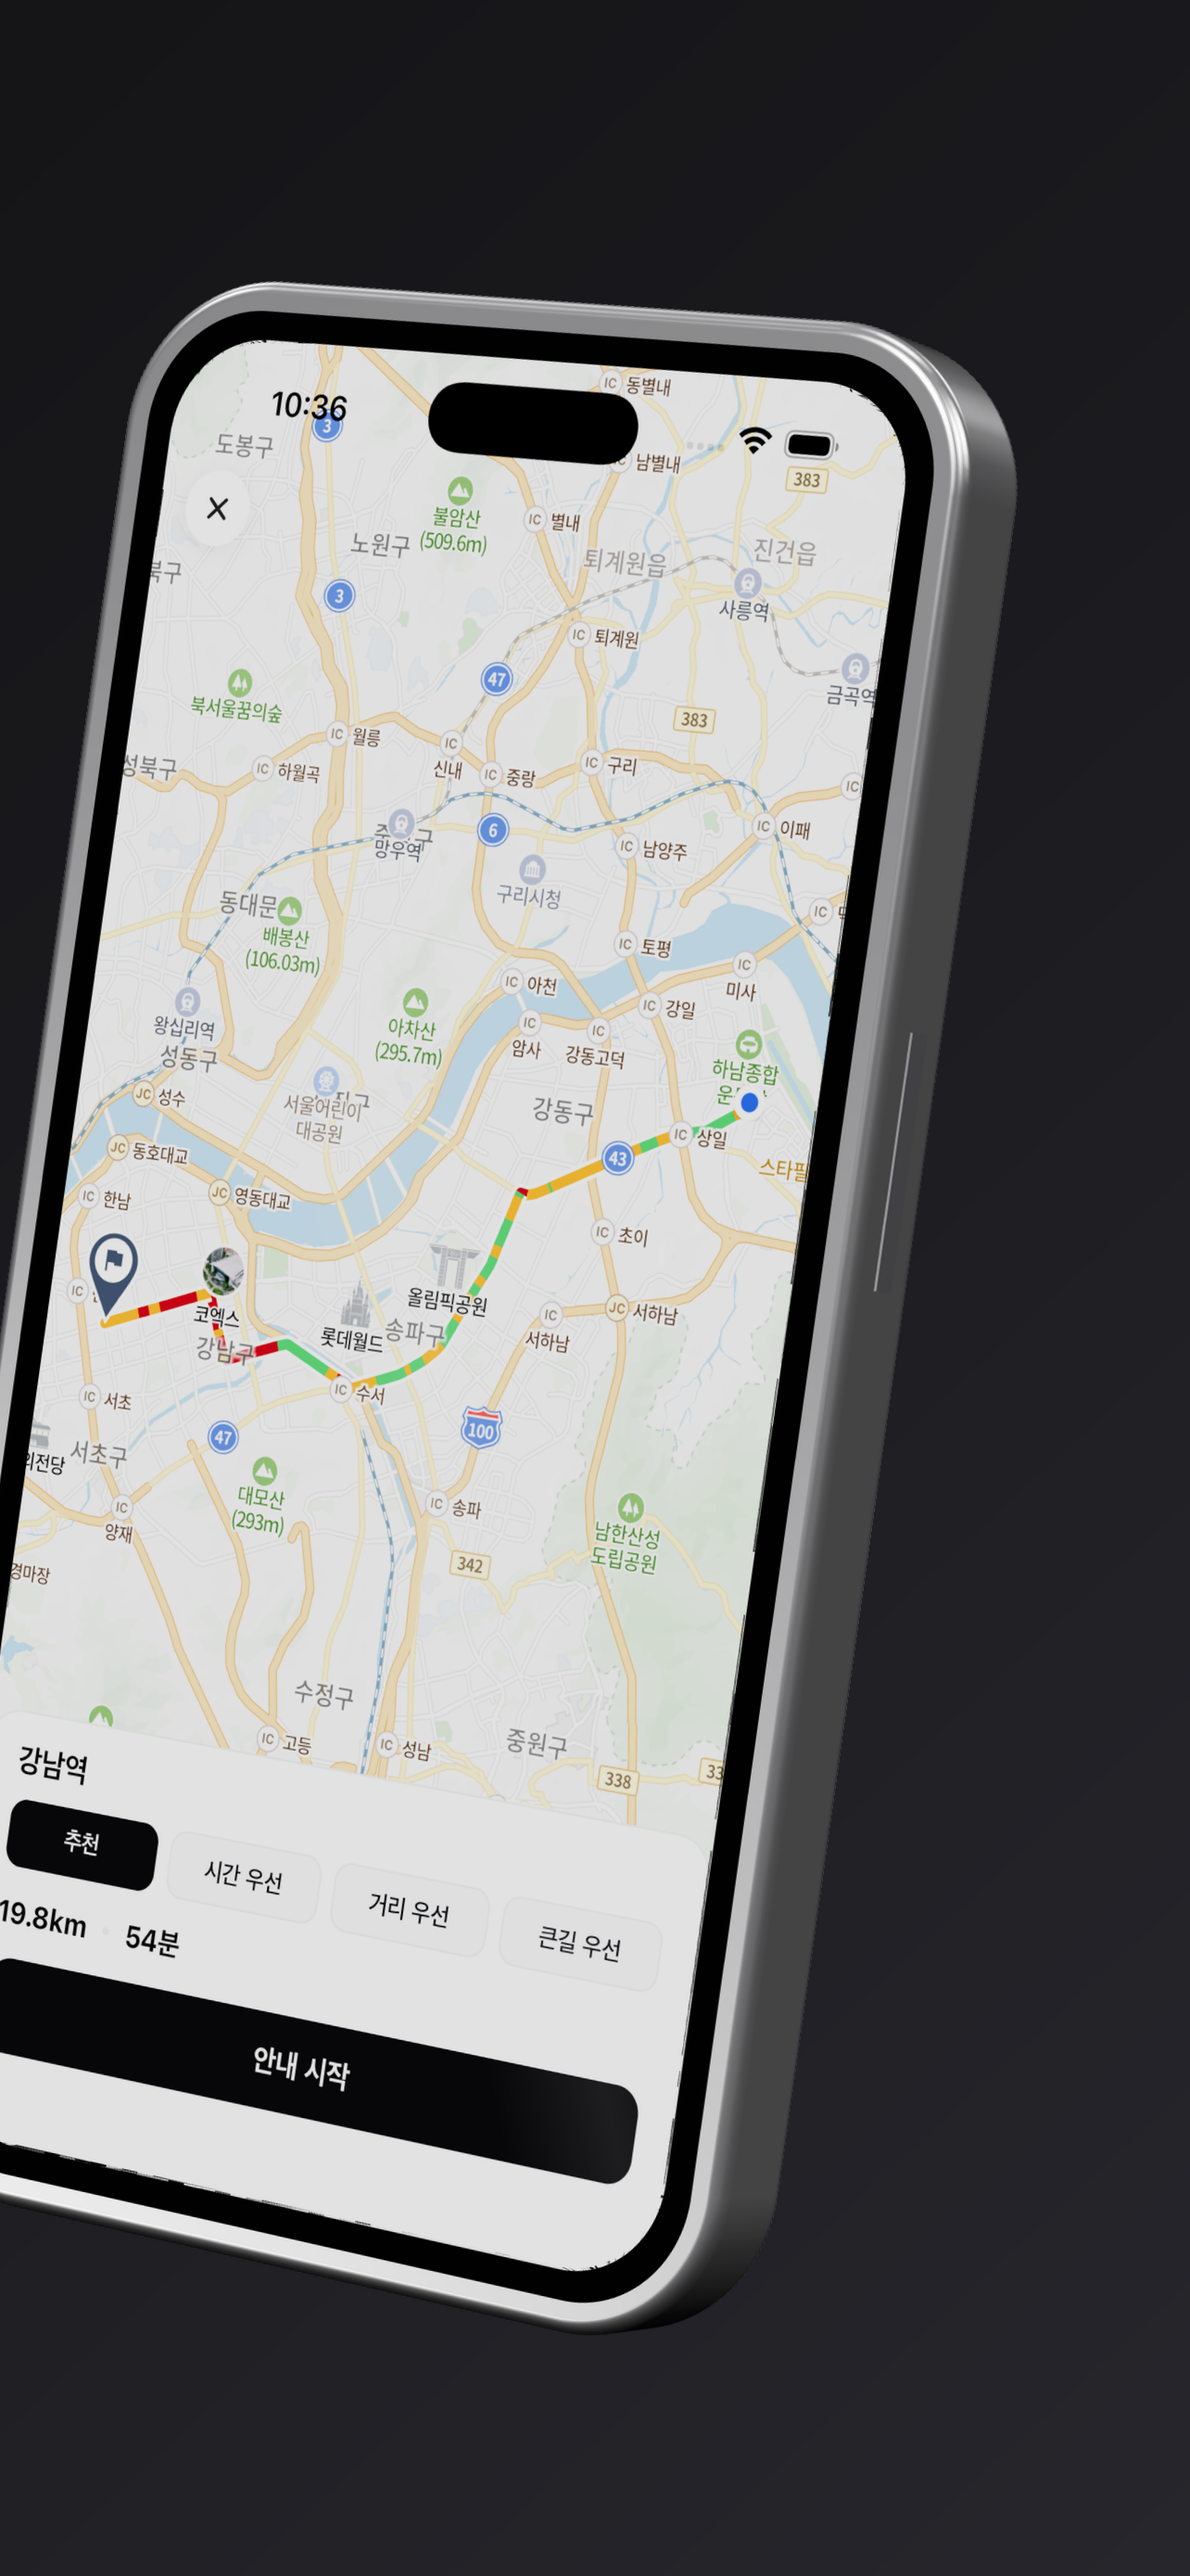
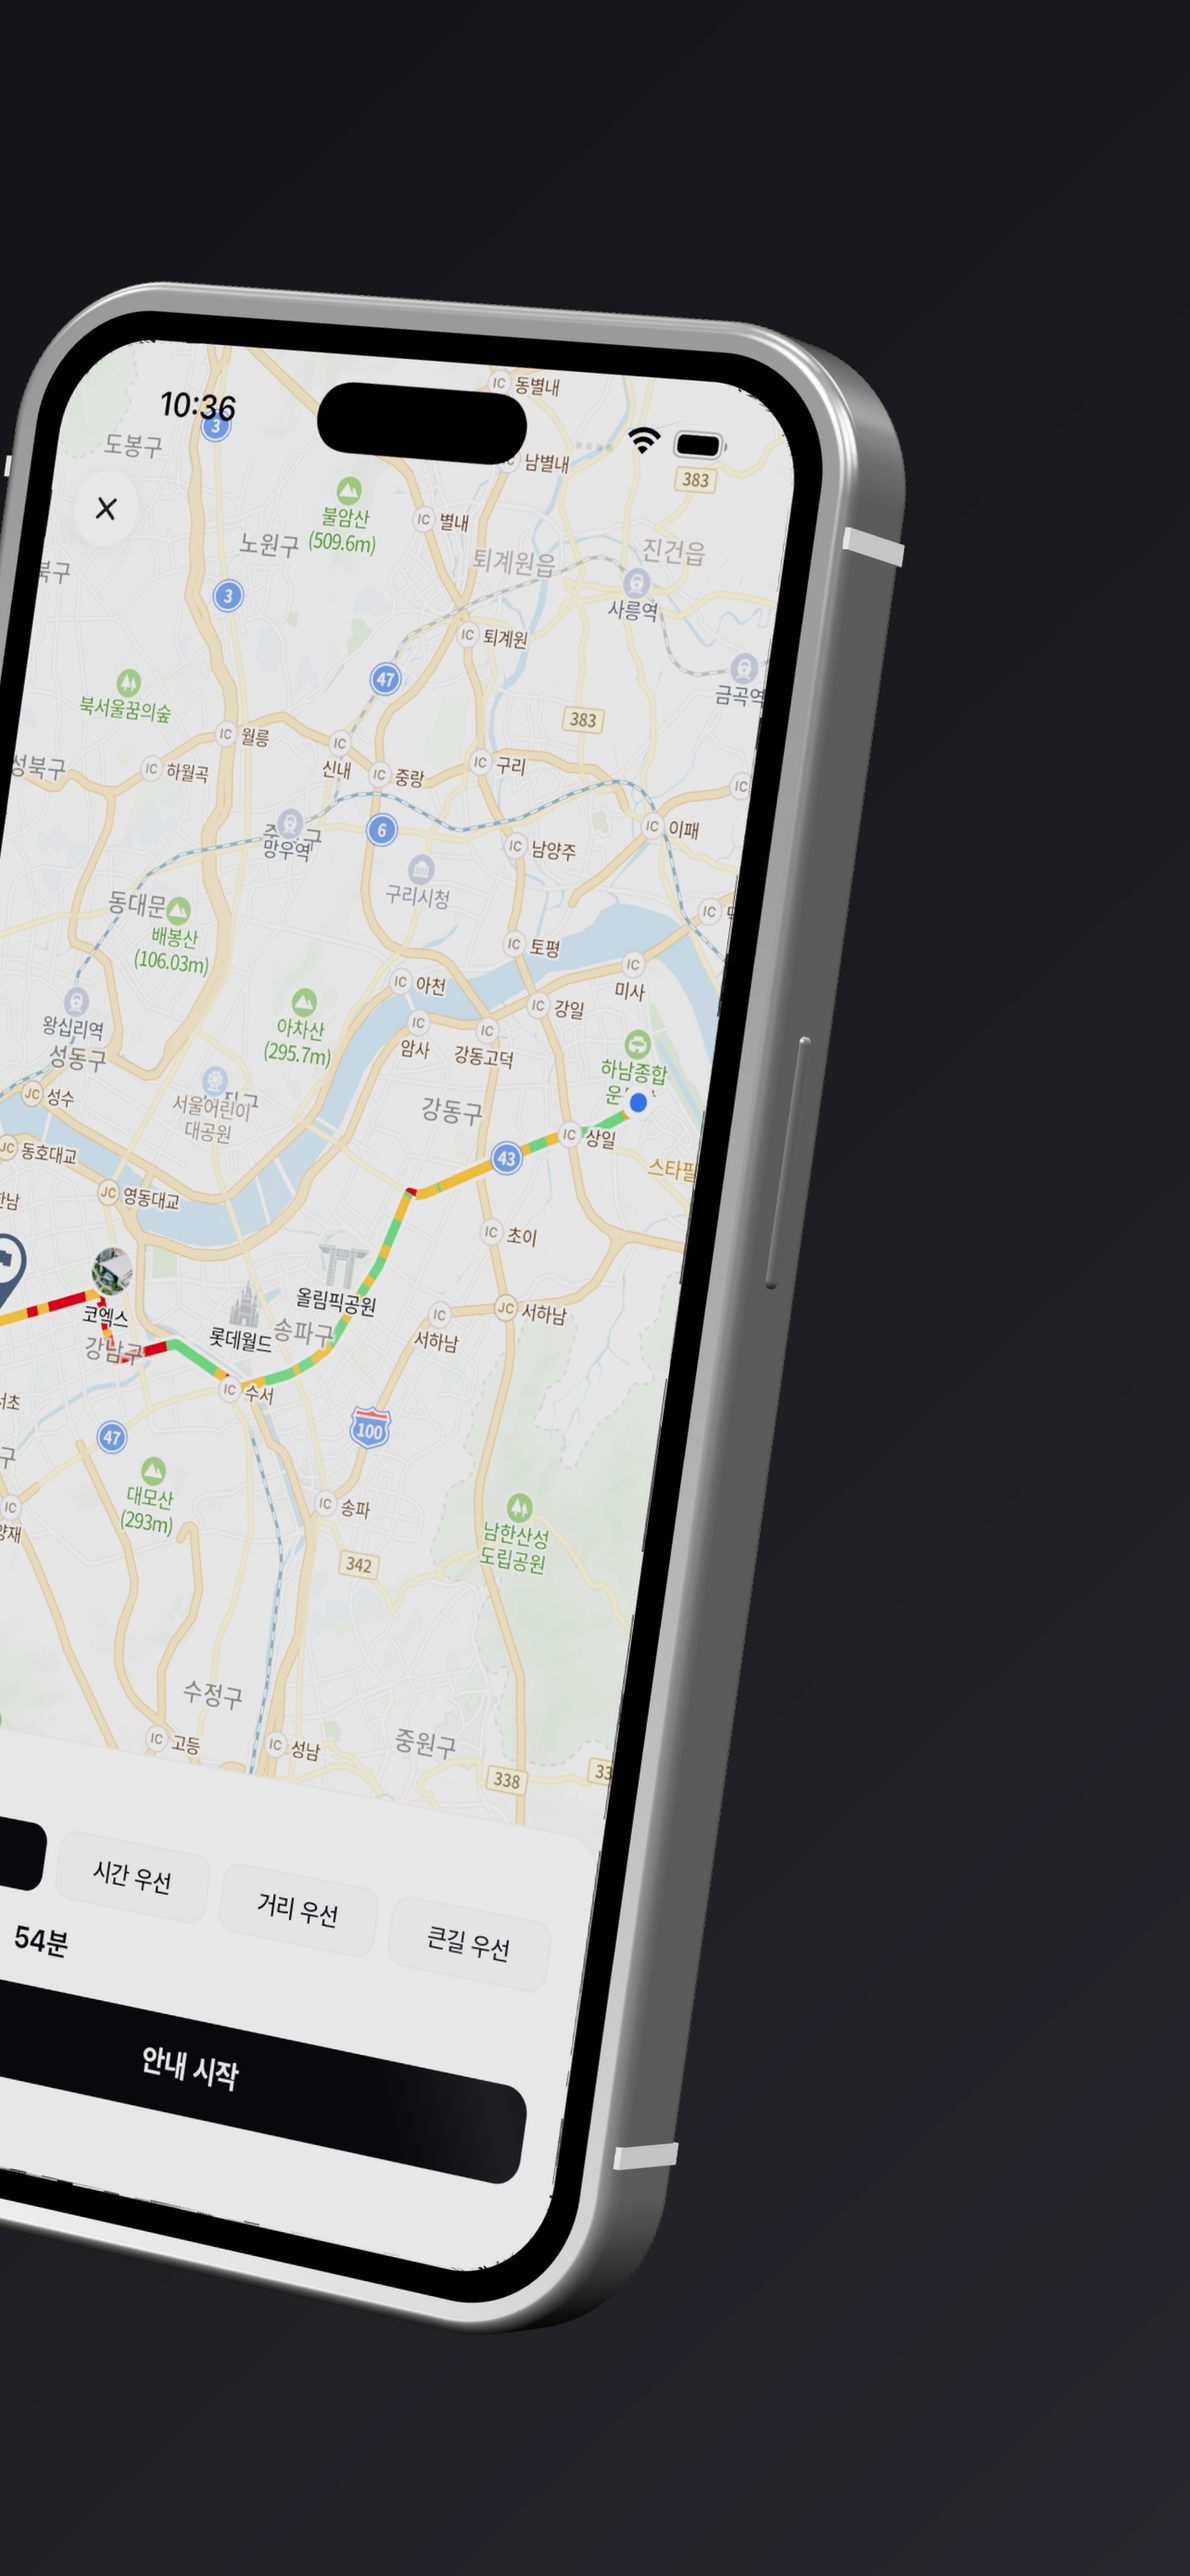
docs: hero phone realism — antenna lines, capsule buttons, brighter white
Matte antenna bands cross the side near top and bottom like the real
frame, buttons become rounded capsules, the body brightens to an
iPhone-white silver (higher exposure), and the phone overlaps page 1
more generously.

diff --git a/scripts/hero-phone-render/render.html b/scripts/hero-phone-render/render.html
@@ -9,6 +9,7 @@
 <script type="module">
   import * as THREE from 'three';
   import { RoomEnvironment } from 'three/addons/environments/RoomEnvironment.js';
+  import { RoundedBoxGeometry } from 'three/addons/geometries/RoundedBoxGeometry.js';
 
   const W = 2100, H = 4200; // 출력 캔버스 (투명 배경)
   const status = document.getElementById('status');
@@ -33,6 +34,7 @@
   const renderer = new THREE.WebGLRenderer({ antialias: true, alpha: true, preserveDrawingBuffer: true });
   renderer.setSize(W, H, false);
   renderer.toneMapping = THREE.ACESFilmicToneMapping;
+  renderer.toneMappingExposure = 1.18;
   renderer.outputColorSpace = THREE.SRGBColorSpace;
   document.body.appendChild(renderer.domElement);
   scene.environment = new THREE.PMREMGenerator(renderer).fromScene(new RoomEnvironment(), 0.04).texture;
@@ -44,7 +46,7 @@
       depth: PD, bevelEnabled: true, bevelThickness: 1.4, bevelSize: 1.2,
       bevelSegments: 16, curveSegments: 72,
     }),
-    new THREE.MeshPhysicalMaterial({ color: 0xf0f0f2, metalness: 0.85, roughness: 0.26, clearcoat: 0.8, clearcoatRoughness: 0.22 }),
+    new THREE.MeshPhysicalMaterial({ color: 0xf8f8f9, metalness: 0.8, roughness: 0.24, clearcoat: 0.8, clearcoatRoughness: 0.2 }),
   );
   body.position.z = -PD - 1.4; // 전면(베벨 끝)이 z≈0
   scene.add(body);
@@ -117,9 +119,10 @@
   }
 
   // ── 측면 버튼 (오른쪽 전원, 왼쪽 음량·액션) ──────────────────────────
-  const btnMat = new THREE.MeshPhysicalMaterial({ color: 0xe9e9ec, metalness: 0.85, roughness: 0.26, clearcoat: 0.6 });
+  const btnMat = new THREE.MeshPhysicalMaterial({ color: 0xf2f2f4, metalness: 0.8, roughness: 0.24, clearcoat: 0.7 });
   function sideButton(x, y, len) {
-    const b = new THREE.Mesh(new THREE.BoxGeometry(1.6, len, 2.4), btnMat);
+    // 실물처럼 끝이 둥근 캡슐형 버튼
+    const b = new THREE.Mesh(new RoundedBoxGeometry(1.7, len, 2.3, 4, 0.8), btnMat);
     b.position.set(x, y, -PD / 2 - 1.4);
     scene.add(b);
   }
@@ -127,6 +130,16 @@
   sideButton(-PW / 2 - 0.6, 25, 11); // 음량 +
   sideButton(-PW / 2 - 0.6, 11, 11); // 음량 -
   sideButton(-PW / 2 - 0.6, 37, 6); // 액션
+
+  // ── 안테나 라인 — 실물 아이폰 측면 상·하단을 가로지르는 무광 절연 줄 ──
+  const antMat = new THREE.MeshStandardMaterial({ color: 0xdededf, metalness: 0.1, roughness: 0.75 });
+  for (const sx of [1, -1]) {
+    for (const y of [PH / 2 - 14, -PH / 2 + 14]) {
+      const line = new THREE.Mesh(new THREE.BoxGeometry(0.9, 1.6, PD + 2.0), antMat);
+      line.position.set(sx * (PW / 2 + 0.85), y, -PD / 2 - 1.4);
+      scene.add(line);
+    }
+  }
 
   // ── 카메라: 오른쪽 30도쯤 — 오른쪽 측면 두께와 전원 버튼이 뚜렷하다 ──
   const cam = new THREE.PerspectiveCamera(16, W / H, 1, 2000);
